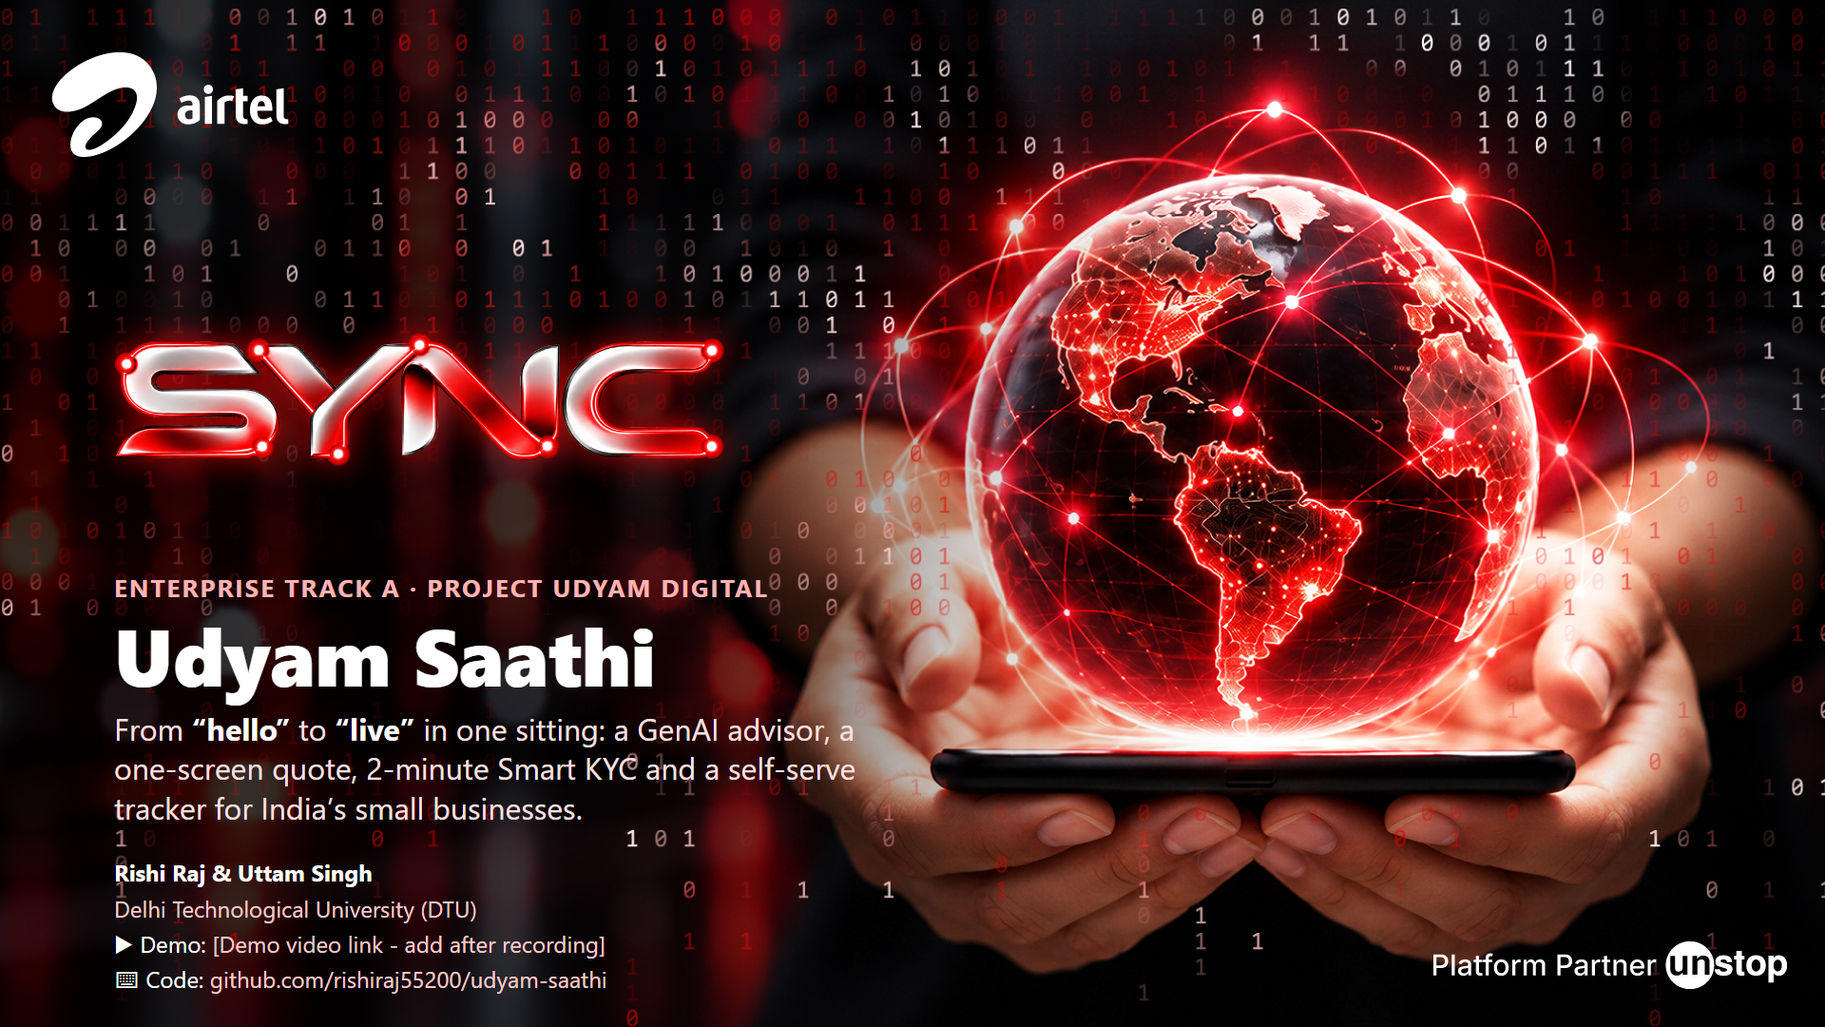
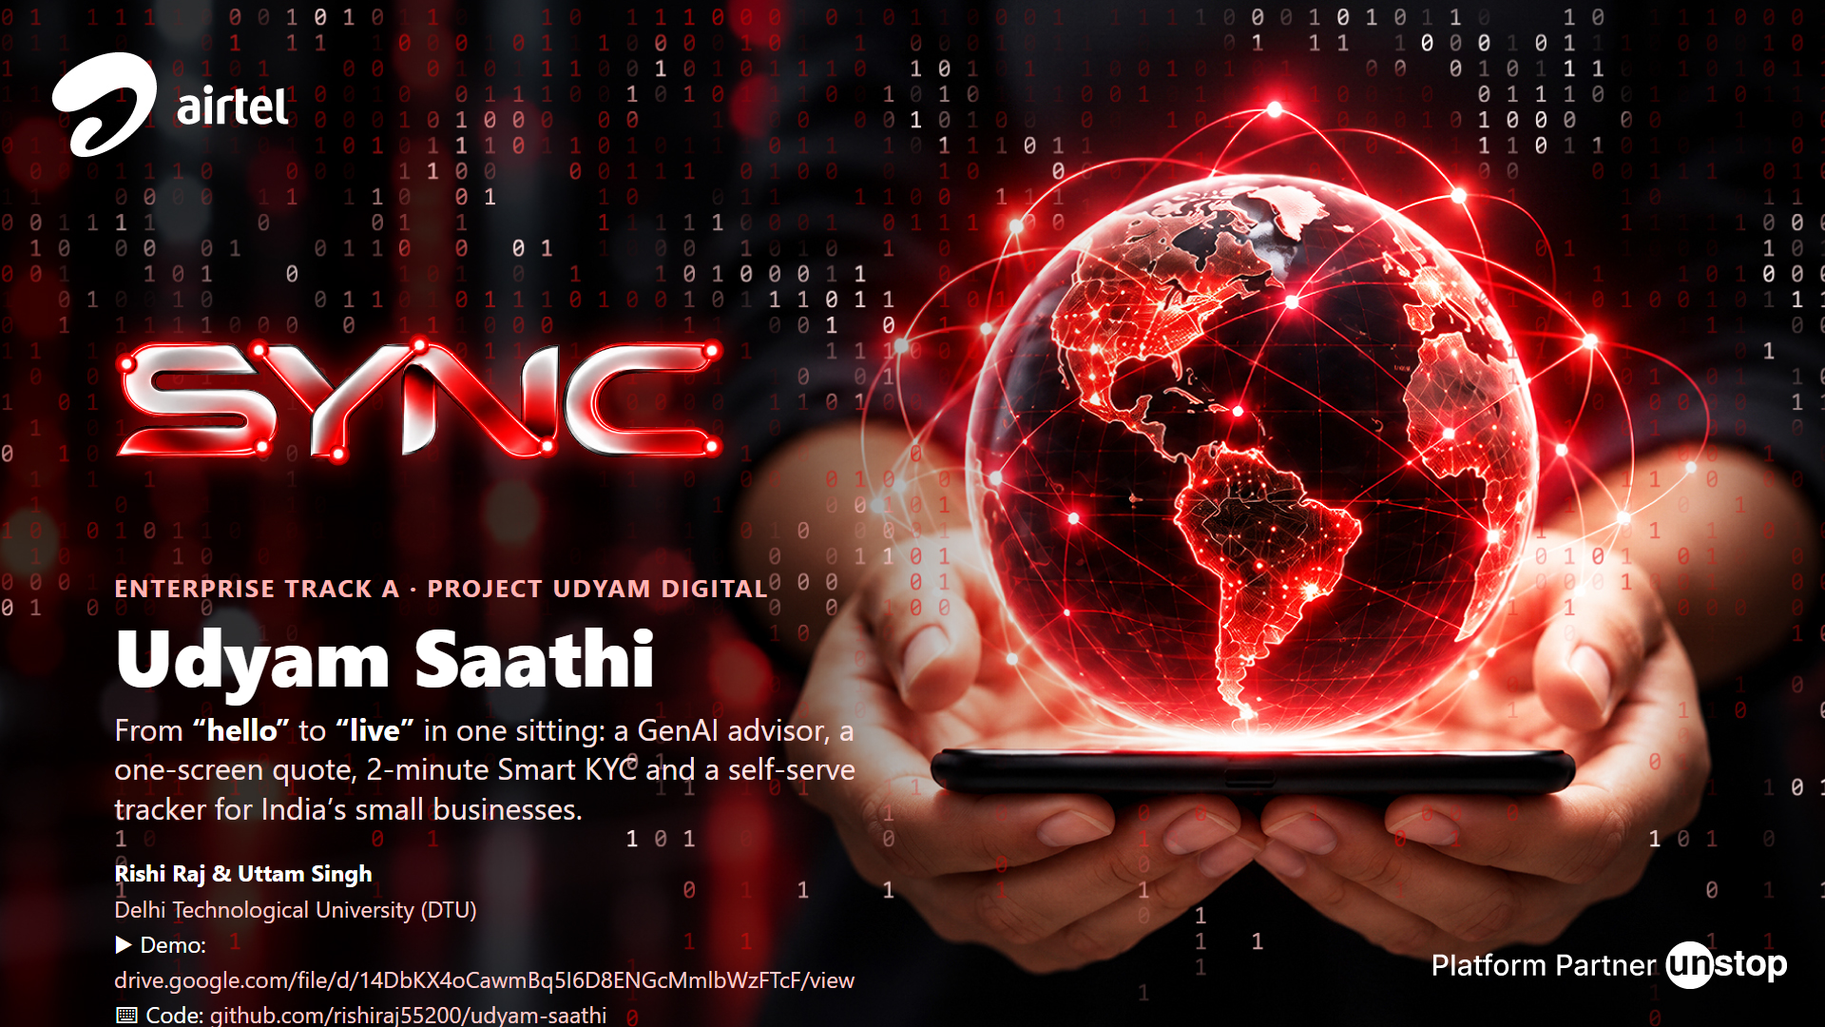
Add demo video link to deck cover

Changed region(s): [[0.0625, 0.9167, 0.4688, 1.0]]

diff --git a/docs/deck/_render.html b/docs/deck/_render.html
@@ -1,0 +1,224 @@
+<!doctype html>
+<html lang="en">
+<head>
+<meta charset="utf-8">
+<title>Udyam Saathi - Airtel SYNC 2026 Track A</title>
+<style>
+  @page { size: 1920px 1080px; margin: 0; }
+  :root { --red: #e40000; --red-d: #b10000; --ink: #15171c; --ink2: #464b57; --ink3: #7a808d; --line: #e7e8ec; --soft: #fff3f3; --ok: #127a3a; --bad: #c0261d; }
+  * { box-sizing: border-box; margin: 0; padding: 0; }
+  body { font-family: "Segoe UI", "Poppins", Arial, sans-serif; color: var(--ink); background: #888; }
+  .slide { width: 1920px; height: 1080px; position: relative; overflow: hidden; background: #fff url(bg-content.jpg) center/cover no-repeat; page-break-after: always; }
+  .slide.cover { background-image: url(bg-cover.jpg); color: #fff; }
+  .safe { position: absolute; left: 96px; right: 96px; top: 150px; bottom: 110px; }
+  .kicker { font-size: 22px; font-weight: 700; color: var(--red); letter-spacing: 1.5px; text-transform: uppercase; }
+  h1 { font-size: 54px; line-height: 1.12; font-weight: 800; margin: 8px 0 22px; letter-spacing: -0.5px; }
+  h1 em { font-style: normal; color: var(--red); }
+  h3 { font-size: 26px; font-weight: 700; margin-bottom: 10px; }
+  p, li { font-size: 22px; line-height: 1.4; color: var(--ink2); }
+  .grid { display: grid; gap: 22px; }
+  .card { background: rgba(255,255,255,.96); border: 1.5px solid var(--line); border-radius: 18px; padding: 22px 24px; box-shadow: 0 4px 18px rgba(0,0,0,.05); }
+  .card.red { border-color: #ffc9c9; background: #fff6f6; }
+  .big { font-size: 60px; font-weight: 800; color: var(--red); line-height: 1; }
+  .mid { font-size: 38px; font-weight: 800; line-height: 1.05; }
+  .small { font-size: 18px; color: var(--ink3); line-height: 1.35; }
+  .tag { display: inline-block; font-size: 16px; font-weight: 700; padding: 4px 12px; border-radius: 99px; background: #ffe3e3; color: var(--red-d); }
+  .tag.g { background: #e3f5ea; color: var(--ok); } .tag.k { background: #eef0f4; color: var(--ink2); }
+  table { width: 100%; border-collapse: collapse; font-size: 20px; }
+  th { text-align: left; font-size: 16px; color: var(--ink3); font-weight: 700; padding: 8px 10px; border-bottom: 2px solid var(--line); text-transform: uppercase; letter-spacing: .5px; }
+  td { padding: 10px 10px; border-bottom: 1px solid var(--line); vertical-align: top; color: var(--ink2); }
+  td b { color: var(--ink); }
+  .bar { height: 26px; background: var(--red); border-radius: 6px; }
+  .bar.grey { background: #c9ccd3; }
+  .phone { width: 100%; border-radius: 22px; border: 6px solid #1b1d23; box-shadow: 0 10px 30px rgba(0,0,0,.18); display: block; }
+  .cap { font-size: 18px; font-weight: 700; margin-top: 10px; text-align: center; }
+  .cap span { display: block; font-weight: 400; color: var(--ink3); font-size: 16px; }
+  ul.tight { padding-left: 24px; } ul.tight li { margin: 4px 0; font-size: 20px; }
+  .arrow { color: var(--red); font-weight: 800; }
+  /* architecture */
+  .lane { border: 2px dashed #e3c4c4; border-radius: 18px; padding: 14px; position: relative; }
+  .lane > .lt { position: absolute; top: -15px; left: 16px; background: #fff; padding: 0 8px; font-size: 16px; font-weight: 800; color: var(--red); letter-spacing: 1px; text-transform: uppercase; }
+  .box { background: #fff; border: 2px solid #d9dbe1; border-radius: 14px; padding: 12px 14px; font-size: 18px; line-height: 1.3; color: var(--ink2); }
+  .box b { display: block; font-size: 20px; color: var(--ink); margin-bottom: 2px; }
+  .box.ai { border-color: #7b61ff; background: #f6f3ff; } .box.rule { border-color: var(--red); background: #fff5f5; } .box.store { border-color: #127a3a; background: #f1faf4; }
+</style>
+</head>
+<body>
+
+<!-- 1. COVER -->
+<section class="slide cover">
+  <div style="position:absolute;left:120px;top:600px;width:820px">
+    <div style="font-size:26px;font-weight:700;letter-spacing:2px;color:#ffb3b3">ENTERPRISE TRACK A · PROJECT UDYAM DIGITAL</div>
+    <div style="font-size:84px;font-weight:800;line-height:1.02;margin:10px 0 14px">Udyam Saathi</div>
+    <div style="font-size:32px;line-height:1.3;color:#ffe0e0">From <b style="color:#fff">“hello”</b> to <b style="color:#fff">“live”</b> in one sitting: a GenAI advisor, a one-screen quote, 2-minute Smart KYC and a self-serve tracker for India’s small businesses.</div>
+    <div style="margin-top:30px;font-size:24px;line-height:1.55;color:#fff">
+      <b id="team">Rishi Raj &amp; Uttam Singh</b><br><span style="color:#ffcccc">Delhi Technological University (DTU)</span><br>
+      ▶ Demo: <span style="color:#ffcccc">drive.google.com/file/d/14DbKX4oCawmBq5I6D8ENGcMmlbWzFTcF/view</span><br>⌨ Code: <span style="color:#ffcccc">github.com/rishiraj55200/udyam-saathi</span>
+    </div>
+  </div>
+</section>
+
+<!-- 2. PROBLEM + INSIGHTS -->
+<section class="slide"><div class="safe">
+  <div class="kicker">The problem · what last quarter’s 5,000 leads tell us</div>
+  <h1>Only <em>7.4%</em> of SMB leads go live. The leaks are <em>visits, quotes and silence</em>, not demand.</h1>
+  <div class="grid" style="grid-template-columns: 1.05fr 1fr 1fr">
+    <div class="card">
+      <h3>Funnel, Apr–Jun 2026</h3>
+      <table style="font-size:19px;table-layout:fixed">
+        <col style="width:170px"><col><col style="width:80px">
+        <tr><td>Leads</td><td><div class="bar grey" style="width:100%"></div></td><td><b>5,000</b></td></tr>
+        <tr><td>Contacted</td><td><div class="bar grey" style="width:68%"></div></td><td><b>3,406</b></td></tr>
+        <tr><td>Needs assessed</td><td><div class="bar grey" style="width:39%"></div></td><td><b>1,974</b></td></tr>
+        <tr><td><b style="color:var(--red)">Quote accepted</b></td><td><div class="bar" style="width:17%"></div></td><td><b>861</b></td></tr>
+        <tr><td>KYC complete</td><td><div class="bar grey" style="width:12%"></div></td><td><b>588</b></td></tr>
+        <tr><td>Activated</td><td><div class="bar grey" style="width:7.4%"></div></td><td><b>368</b></td></tr>
+      </table>
+      <p class="small" style="margin-top:10px">17.6 days lead→live · 3 status chases per customer · ₹15,053 blended CAC</p>
+    </div>
+    <div class="grid" style="gap:16px">
+      <div class="card red"><div class="mid">827</div><p><b>dropped before any quote</b> because the owner had no time for a visit, or sales never scheduled it</p></div>
+      <div class="card red"><div class="mid">1,006</div><p><b>dropped at the quote</b>: price too high (414), competitor cheaper (207), quote too complex (206), too slow (179)</p></div>
+      <div class="card red"><div class="mid">273</div><p><b>lost in paperwork</b>: missing GST/Udyam docs, mismatches, no signatory, “too long”</p></div>
+    </div>
+    <div class="grid" style="gap:16px">
+      <div class="card"><h3 style="font-size:22px">Field sales costs 6× more per activation</h3>
+        <table style="font-size:18px"><tr><td>Field sales</td><td><b>₹24,335</b></td></tr><tr><td>Channel partner</td><td><b>₹20,851</b></td></tr><tr><td>Website · Inbound</td><td><b>₹6,352 · ₹5,113</b></td></tr><tr><td>Referral</td><td><b>₹4,099</b> at 14.8% conv.</td></tr></table></div>
+      <div class="card"><h3 style="font-size:22px">Silence after purchase drives churn</h3>
+        <p style="font-size:19px">Customers who chased status ≤1 time: <b>5.9% churn, NPS −3</b>. More than 4 chases: <b>27.9% churn, NPS −63</b>.</p></div>
+      <div class="card"><h3 style="font-size:22px">GST is the gate</h3><p style="font-size:19px">Activation <b>9.6%</b> with a GSTIN vs <b>2.0%</b> without. 29% of leads have none.</p></div>
+    </div>
+  </div>
+</div></section>
+
+<!-- 3. SEGMENTS + BUNDLES -->
+<section class="slide"><div class="safe">
+  <div class="kicker">Who first · what bundle · what price</div>
+  <h1>Lead with <em>professional offices</em>, go digital-only for <em>micro</em>, assist <em>multi-site</em></h1>
+  <table>
+    <tr><th style="width:15%">Segment (share)</th><th style="width:20%">Why this order (Q1 data)</th><th style="width:31%">Launch bundle (advisor default)</th><th style="width:15%">Price / month*</th><th style="width:19%">Journey</th></tr>
+    <tr><td><span class="tag">① Priority</span><br><b>Professional offices</b> (25%)<br><span class="small">clinic · CA · coaching</span></td><td>Best economics: <b>11.1% activation, ₹10.7k CAC vs ₹6.8k bundle</b> → payback &lt; 2 months; churn 13.8%</td><td><b>“Pro Office”</b>: Biz Fibre 300 · 2 Postpaid 599 · Cloud Email per user · Endpoint Security · 1 TB Cloud Backup <span class="small">(+ backup link, SMS reminders, IVR as add-ons)</span></td><td><b>₹6,339</b> (12 m)<br><b>₹4,889</b> (36 m)<br><span class="small">8-staff clinic, ₹0 setup</span></td><td>100% digital, advisor + Smart KYC; partner only installs</td></tr>
+    <tr><td><span class="tag">② Volume</span><br><b>Micro retail &amp; services</b> (55%)</td><td>Largest base, but <b>4.1% activation, ₹20k CAC vs ₹2.5k bundle</b> → only works with near-zero-touch acquisition</td><td><b>“Dukaan Starter”</b>: Biz Fibre 100 · Cloud POS &amp; UPI billing · 1 Postpaid 299 <span class="small">(5G AirFiber if no fibre; WhatsApp API unlocks with GST)</span></td><td><b>₹2,497</b> (12 m)<br><b>₹1,897</b> (36 m)<br><span class="small">kept ≤ ₹2,500</span></td><td>Digital-only, WhatsApp/voice entry, regional language, GST-light path</td></tr>
+    <tr><td><span class="tag k">③ Value</span><br><b>Small multi-site</b> (15%)</td><td>Highest value: <b>₹31k/month</b>, lowest churn 10.8%, but longest install (18.8 d)</td><td><b>“One-Bill Chain”</b>: Fibre 300 + 4G/5G failover per site · POS per outlet · CCTV · Postpaid per manager <span class="small">(SD-WAN at 3+ sites and 10+ staff)</span></td><td><b>₹23,470</b> (12 m)<br><span class="small">5 outlets; ₹17,970 at 36 m</span></td><td>Advisor quote → field sales closes (high value)</td></tr>
+    <tr><td><span class="tag k">④ Niche</span><br><b>Small manufacturers</b> (5%)</td><td>Strong conversion (12.8%) but complex site surveys; worst NPS (−46)</td><td><b>“Factory Connect”</b>: Leased Line 20 (SLA) · Managed Firewall · Machine IoT kit · Postpaid 599 · Endpoint Security</td><td><b>₹22,327</b> (12 m)<br><span class="small">40-worker unit</span></td><td>Field-led, advisor for pre-qualification</td></tr>
+  </table>
+  <p class="small" style="margin-top:14px">*Prices come from the live prototype’s rules engine on the provided catalogue: 12-month contracts at the top of each price range, 24 months mid-range, 36 months the floor with setup 50% off. Every bundle is checked against city tier, minimum staff and sites, GSTIN requirement and product dependencies before it is shown.</p>
+</div></section>
+
+<!-- 4. SOLUTION / PROTOTYPE -->
+<section class="slide"><div class="safe">
+  <div class="kicker">The working prototype</div>
+  <h1>Five screens replace a visit, a PDF quote, a paper file and 3 calls</h1>
+  <div class="grid" style="grid-template-columns: repeat(5, 1fr); gap: 26px; align-items: start">
+    <div><img class="phone" src="../screens/12_advisor_hindi.png" style="height:440px;object-fit:cover;object-position:top"><div class="cap">1 · Advisor<span>Hindi, Marathi, Tamil, English, voice. One sentence fills 5 answers</span></div></div>
+    <div><img class="phone" src="../screens/04_quote.png" style="height:440px;object-fit:cover;object-position:top"><div class="cap">2 · Quote &amp; checkout<span>One monthly price + GST, toggle add-ons, 12/24/36 m</span></div></div>
+    <div><img class="phone" src="../screens/06_kyc_problem.png" style="height:440px;object-fit:cover;object-position:top 46%"><div class="cap">3 · Smart KYC<span>Consent → photo OCR → GSTIN/Udyam lookup → 14 checks</span></div></div>
+    <div><img class="phone" src="../screens/11_tracker.png" style="height:440px;object-fit:cover;object-position:top"><div class="cap">4 · Tracker<span>Live stages, per-product ETA, WhatsApp updates</span></div></div>
+    <div><img class="phone" src="../screens/15_backoffice_leads.png" style="height:440px;object-fit:cover;object-position:left top;border-radius:14px"><div class="cap">5 · Partner back office<span>Hand-offs + propensity-ranked call list</span></div></div>
+  </div>
+  <div class="grid" style="grid-template-columns: repeat(4, 1fr); gap: 18px; margin-top: 26px">
+    <div class="card"><b style="font-size:21px">10/10 advisor test scenarios pass</b><p class="small">tier, staff, sites, GSTIN and dependency rules, in 4 languages</p></div>
+    <div class="card"><b style="font-size:21px">8 of 12 specimen applicants flagged</b><p class="small">cancelled GSTIN, blank Udyam no., blurred cert, GSTIN typo, name mismatch, 257-day-old bill, “Owner” signing for an LLP</p></div>
+    <div class="card"><b style="font-size:21px">GenAI is guard-railed</b><p class="small">Claude Opus 5.5 understands free text in any language; a deterministic rules engine decides what can be sold</p></div>
+    <div class="card"><b style="font-size:21px">Works with no AI key</b><p class="small">a rule-based multilingual parser takes over, so a live demo can never break</p></div>
+  </div>
+</div></section>
+
+<!-- 5. ARCHITECTURE -->
+<section class="slide"><div class="safe">
+  <div class="kicker">Solution architecture &amp; data flow</div>
+  <h1 style="margin-bottom:30px">AI proposes, <em>rules decide</em>, documents are read and never stored</h1>
+  <div class="grid" style="grid-template-columns: 0.8fr 0.12fr 2.4fr 0.12fr 0.95fr; gap: 0; align-items: stretch; height: 640px">
+    <div class="lane" style="display:flex;flex-direction:column;gap:14px;justify-content:center"><span class="lt">Channels</span>
+      <div class="box"><b>Mobile web / PWA</b>4 languages, low-bandwidth</div>
+      <div class="box"><b>Voice</b>speech-to-text in hi-IN, mr-IN, ta-IN</div>
+      <div class="box"><b>WhatsApp link</b>campaigns, quote sharing</div>
+      <div class="box"><b>Partner / field app</b>same journey, assisted</div>
+    </div>
+    <div style="display:grid;place-items:center;font-size:44px;color:var(--red)">→</div>
+    <div class="lane" style="display:grid;grid-template-columns:1fr 1fr 1fr;gap:14px;align-content:start"><span class="lt">Udyam Digital platform (Node.js API)</span>
+      <div class="box ai" style="grid-column:1/3"><b>① Advisor: Udyam Saathi</b>Claude Opus 5.5 extracts business facts from free text (any language, identifiers redacted first) → slot-filling dialogue asks only what is missing (max 7 questions)</div>
+      <div class="box rule"><b>Rules engine</b>catalogue: city tier, min staff/sites, GSTIN, <i>requires_one_of</i>, segment budget guard</div>
+      <div class="box rule"><b>② Quote engine</b>term-based price within range, setup, 18% GST, add-on toggles, install ETA = slowest product</div>
+      <div class="box"><b>③ Smart KYC</b>consent gate → OCR (Tesseract) → field extraction → GSTIN checksum + OCR repair → registry lookups → 14 cross-document checks → decision</div>
+      <div class="box"><b>Mock registry APIs</b>GSTIN lookup (status: active / cancelled / suspended) · Udyam lookup · DigiLocker pull · e-sign OTP</div>
+      <div class="box"><b>④ Orders &amp; tracker</b>per-product install plan, stage events, WhatsApp notifications, tracker locked by order ID + last 4 digits of mobile</div>
+      <div class="box"><b>⑤ Back office</b>hand-offs with full context, leads ranked by propensity model (logistic regression, AUC 0.71) + next best action</div>
+      <div class="box store"><b>Data layer</b>consent ledger (versioned) · orders (hashed mobile) · <u>no document images</u> · masked logs</div>
+    </div>
+    <div style="display:grid;place-items:center;font-size:44px;color:var(--red)">→</div>
+    <div class="lane" style="display:flex;flex-direction:column;gap:14px;justify-content:center"><span class="lt">Accel systems</span>
+      <div class="box"><b>CRM / lead store</b>attribution to partner by PIN code</div>
+      <div class="box"><b>Feasibility + provisioning</b>fibre check, SIM, router, CCTV kits</div>
+      <div class="box"><b>Field force &amp; partners</b>survey, install, assisted closes</div>
+      <div class="box"><b>One bill · 121 support</b>single account for all products</div>
+    </div>
+  </div>
+</div></section>
+
+<!-- 6. PRIVACY + CHANNEL ROLE -->
+<section class="slide"><div class="safe">
+  <div class="kicker">Trust · DPDP Act 2023 · people</div>
+  <h1>Privacy by design, and a journey that <em>feeds</em> partners</h1>
+  <div class="grid" style="grid-template-columns: 1.15fr 1fr; gap: 26px">
+    <div class="card">
+      <h3>Data privacy &amp; security choices</h3>
+      <table style="font-size:17.5px">
+        <tr><td style="width:190px"><b>Consent</b></td><td>Plain-language notice in the owner’s language before KYC: what, why, how long, rights. KYC consent is required; WhatsApp updates and marketing are separate, and marketing is off by default. Versioned and timestamped in a consent ledger.</td></tr>
+        <tr><td><b>Purpose limitation</b></td><td>KYC data is used only for verification and activation. The advisor’s profile never enters the KYC record; the propensity model uses no names or identifiers.</td></tr>
+        <tr><td><b>Data minimisation</b></td><td>Documents are OCR’d in memory and the image is discarded straight away. Only the extracted fields are kept, and those are dropped once the order is placed. GSTIN, Udyam no., phone and email are <b>redacted before any text reaches the AI model</b>.</td></tr>
+        <tr><td><b>Masking</b></td><td>GSTIN 27XXXXXXXXXU1ZL, Udyam XXXX547, IDs, names and phones are masked in the UI, the back office and the logs (automatic log scrubber). Mobile numbers are stored as a hash plus the last 4 digits.</td></tr>
+        <tr><td><b>Retention &amp; rights</b></td><td>Verified details are kept for the contract plus the statutory period. A one-tap “Delete my KYC data” button (right to erasure) and a grievance officer contact sit on the consent screen.</td></tr>
+        <tr><td><b>Security</b></td><td>Image-only uploads up to 5 MB, security headers, back office behind a role key (SSO/RBAC in production), sessions expire after 2 h idle, encryption at rest and in transit in production.</td></tr>
+      </table>
+    </div>
+    <div class="grid" style="gap:18px">
+      <div class="card red"><h3>Field force &amp; channel partners</h3>
+        <ul class="tight">
+          <li><b>Assist, don’t chase:</b> “Talk to an expert” creates a hand-off with the full profile and quote, so a partner never asks the same questions twice</li>
+          <li><b>Partners keep the commission</b> on digital closes in their PIN codes, so the app is their lead engine, not a competitor</li>
+          <li><b>Call list by propensity × value:</b> field sales only for multi-site, manufacturers and high-value drops</li>
+          <li><b>Partners own the last mile:</b> site survey, installation and the first-week check-in; the tracker shows their progress live</li>
+        </ul></div>
+      <div class="card"><h3 style="font-size:22px">KYC answer quality on the specimen pack</h3>
+        <p style="font-size:19px">Blur/unreadable (K02, K04) · cancelled GSTIN + blank Udyam no. (K01) · GSTIN typo caught by checksum + nearest registry match (K06, K10) · legal-name mismatch (K07) · bill older than 90 days (K11) · “Owner” as signatory for LLP/Pvt Ltd (K05, K10, K11) · 4 clean files approved in under a minute.</p></div>
+    </div>
+  </div>
+</div></section>
+
+<!-- 7. IMPACT, METRICS, ROLLOUT, RISKS -->
+<section class="slide"><div class="safe">
+  <div class="kicker">Success metrics · rollout · risks</div>
+  <h1>Target: <em>12%</em> lead-to-live in 6 months, at <em>half</em> the acquisition cost</h1>
+  <div class="grid" style="grid-template-columns: 1.15fr 1fr; gap: 26px">
+    <div class="card">
+      <table style="font-size:20px">
+        <tr><th>Metric</th><th>Q1 baseline</th><th>6-month target</th><th>Lever</th></tr>
+        <tr><td><b>Lead → activation</b></td><td>7.4%</td><td><b style="color:var(--red)">12%</b></td><td>no-visit discovery, instant quote</td></tr>
+        <tr><td><b>Time to activate</b></td><td>17.6 days</td><td><b style="color:var(--red)">≤ 7 days</b></td><td>KYC in minutes, parallel installs</td></tr>
+        <tr><td><b>Blended CAC / activation</b></td><td>₹15,053</td><td><b style="color:var(--red)">≤ ₹7,500</b></td><td>digital-first, field sales for high value only</td></tr>
+        <tr><td><b>Status chases / customer</b></td><td>3.0</td><td><b style="color:var(--red)">&lt; 1</b></td><td>tracker + WhatsApp updates</td></tr>
+        <tr><td><b>6-month churn</b></td><td>15.2%</td><td><b style="color:var(--red)">&lt; 10%</b></td><td>right-sized bundles, fewer chases</td></tr>
+      </table>
+      <p class="small" style="margin-top:12px">Value at target on one quarter’s 5,000 leads: +232 activations × ₹6,900 median bundle ≈ <b>₹1.9 crore new ARR per quarter</b>, plus ≈ ₹28 lakh of acquisition cost saved on today’s 368 activations. Guardrail metrics: KYC first-pass rate, NPS, partner share of closes.</p>
+    </div>
+    <div class="grid" style="gap:18px">
+      <div class="card"><h3>Rollout</h3>
+        <table style="font-size:19px">
+          <tr><td style="width:120px"><span class="tag">0–3 m</span></td><td><b>Pilot:</b> professional offices in Pune, Delhi, Nagpur and Jaipur; English + Hindi + Marathi; A/B against field sales</td></tr>
+          <tr><td><span class="tag">3–6 m</span></td><td><b>Micro digital-only</b> via WhatsApp + voice; Tamil, Telugu, Kannada, Bengali; partner commission on digital closes</td></tr>
+          <tr><td><span class="tag">6–12 m</span></td><td><b>All 22 cities</b>; live GSTN/Udyam/DigiLocker APIs; multi-site assisted journey; propensity model retrained monthly</td></tr>
+        </table></div>
+      <div class="card red"><h3>Risks &amp; mitigation</h3>
+        <ul class="tight">
+          <li><b>AI suggests the wrong product</b> → rules engine is final, advisor scenario regression suite run on every change</li>
+          <li><b>KYC fraud / tampered docs</b> → registry match + checksum; manual review queue on any fail</li>
+          <li><b>Partner pushback</b> → PIN-code attribution and commission on digital closes</li>
+          <li><b>Fibre not feasible</b> → auto-switch to 5G AirFiber, feasibility check before payment</li>
+        </ul></div>
+    </div>
+  </div>
+</div></section>
+
+</body>
+</html>
